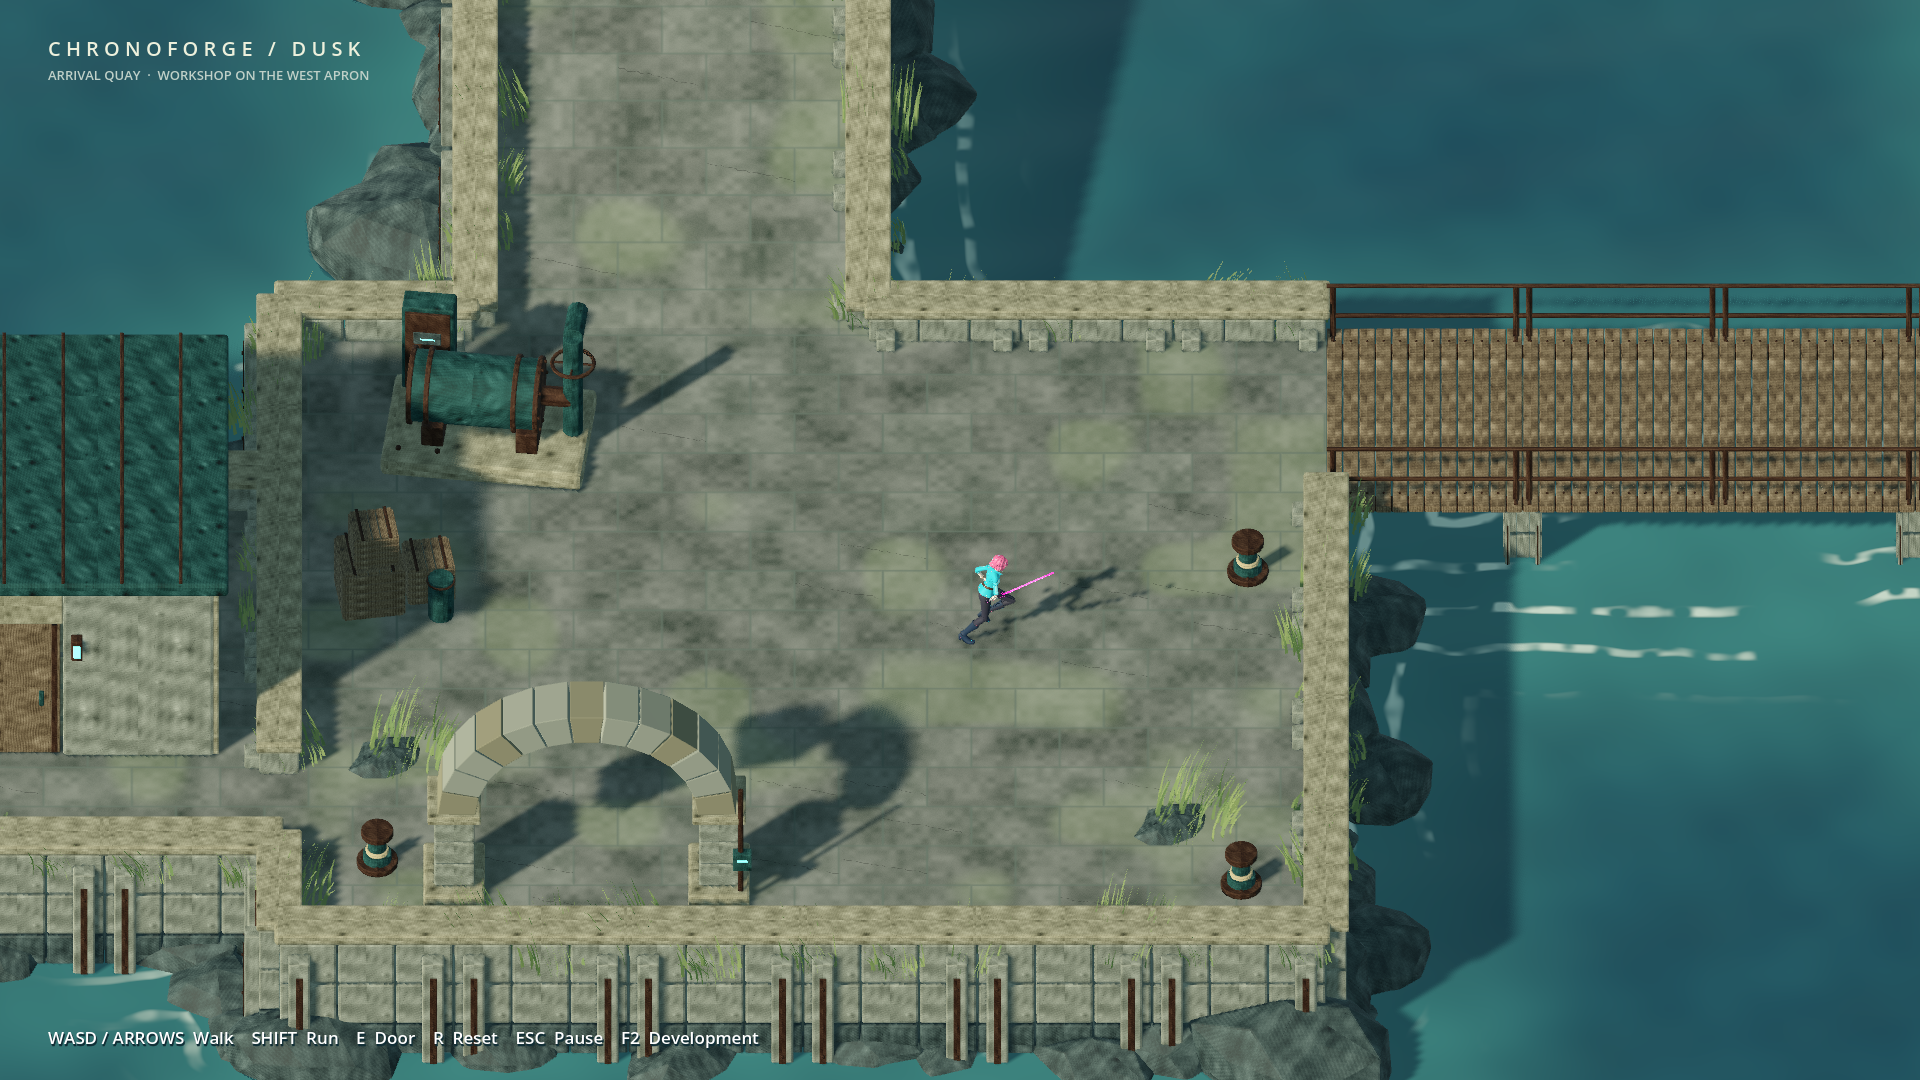
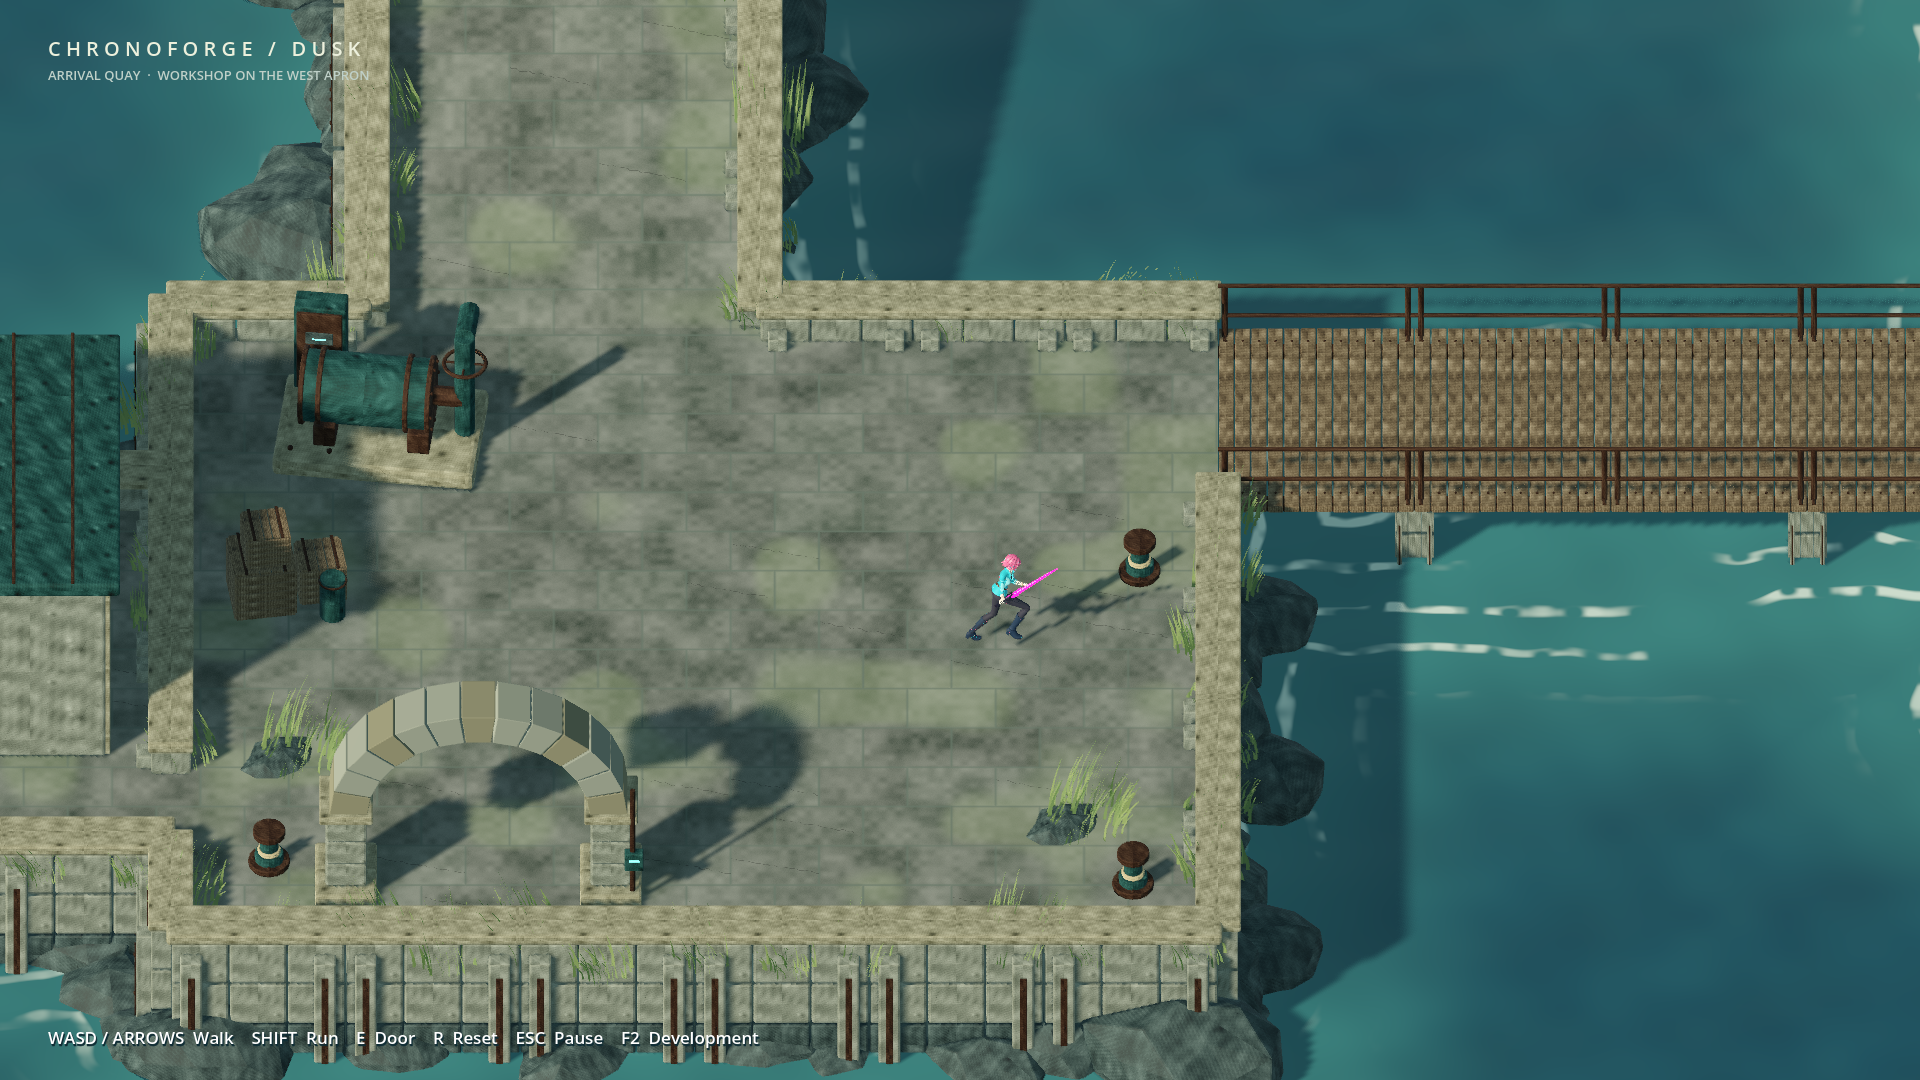
Increase normal running speed by fifty percent

diff --git a/games/chronoforge-dusk/evidence/environment-06/README.md b/games/chronoforge-dusk/evidence/environment-06/README.md
@@ -14,11 +14,11 @@ The elevated camera uses **0° yaw**. The route and camera-relative keyboard axe
 
 ## Exact content
 
[2 lines of base64/hex data omitted]
 
-The focused check passes **18 native assertions and 6 cold-start assertions**, with no external input. Measured one-second travel is 2.99 m and 6.63 m. Left-hand sweeps measure 60.2 cm and 68.4 cm; maximum sword-hand steps are 2.64 cm and 4.17 cm at 60 Hz. The bind rig, geometry and weights are unchanged. All five visible action poses are preserved; a constant facing correction on non-deforming MotionRoot keeps hip rotations near their neutral blend reference. Repeated 0.1, 0.25 and 0.4-second Shift taps while holding Right and Left keep the body facing forward without spins.
+The focused check passes **18 native assertions and 6 cold-start assertions**, with no external input. Measured one-second travel is 4.485 m and 6.63 m. Left-hand sweeps measure 60.2 cm and 68.4 cm; maximum sword-hand steps are 3.94 cm and 4.17 cm at 60 Hz. The bind rig, geometry and weights are unchanged. All five visible action poses are preserved; a constant facing correction on non-deforming MotionRoot keeps hip rotations near their neutral blend reference. Repeated 0.1, 0.25 and 0.4-second Shift taps while holding Right and Left keep the body facing forward without spins.
 
[2 lines of base64/hex data omitted]
 
 Full-route/rendering source SHA-256:
 

diff --git a/games/chronoforge-dusk/_prep/assets/kaida/README.md b/games/chronoforge-dusk/_prep/assets/kaida/README.md
@@ -16,7 +16,7 @@
 | Shift-run source | [Fast Run.fbx](<../../references/kaida/r2/Fast Run.fbx>) |
 | Editable sword | [Sword master](../kaida.energy-sword/sources/r2/master.blend) |
 
-The `walk` role uses the supplied Running clip; `run` uses Fast Run. Both are in place, with the authored sword carry retained. MotionRoot holds the constant facing correction so the hips stay near their neutral blend reference during rapid walk/run switches. Their source cycle speeds are 5.01623 and 6.48387 m/s; runtime playback follows the current 2.99 and 6.63 m/s movement speeds. The character master contains idle, walk, run, attack and hurt actions, a unit-scale rig, MotionRoot and SwordSocket. Materials are packed in the Blender file; editable map files are retained beside it. The game owns displacement, facing, stride matching and action timing.
+The `walk` role uses the supplied Running clip; `run` uses Fast Run. Both are in place, with the authored sword carry retained. MotionRoot holds the constant facing correction so the hips stay near their neutral blend reference during rapid walk/run switches. Their source cycle speeds are 5.01623 and 6.48387 m/s; runtime playback follows the current 4.485 and 6.63 m/s movement speeds. The character master contains idle, walk, run, attack and hurt actions, a unit-scale rig, MotionRoot and SwordSocket. Materials are packed in the Blender file; editable map files are retained beside it. The game owns displacement, facing, stride matching and action timing.
 
 ## Export and verification
 

diff --git a/games/chronoforge-dusk/releases/kaida-a1.md b/games/chronoforge-dusk/releases/kaida-a1.md
@@ -14,7 +14,7 @@
 
 ## Included
 
-Normal movement at 2.99 m/s uses Running.fbx; Shift-run at 6.63 m/s uses Fast Run.fbx. Both retain sword carry and use stride-matched playback, with responsive start/stop/turn, wall and slope collision, five animated roles, separate sword, approach/strike/contact/recovery/return, target reactions, hit stop, blade feedback and sound. Inspection supports replay, slow motion, stepping, rig/contact markers and saved gameplay tuning.
+Normal movement at 4.485 m/s uses Running.fbx; Shift-run at 6.63 m/s uses Fast Run.fbx. Both retain sword carry and use stride-matched playback, with responsive start/stop/turn, wall and slope collision, five animated roles, separate sword, approach/strike/contact/recovery/return, target reactions, hit stop, blade feedback and sound. Inspection supports replay, slow motion, stepping, rig/contact markers and saved gameplay tuning.
 
 The runtime, source master and prepared package all use a1. The release pins the model and sword bytes by SHA-256. Original Meshy/Mixamo inputs and current editable sources remain available. Superseded exports, demos, fix scripts and iteration reports belong in Git history.
 
